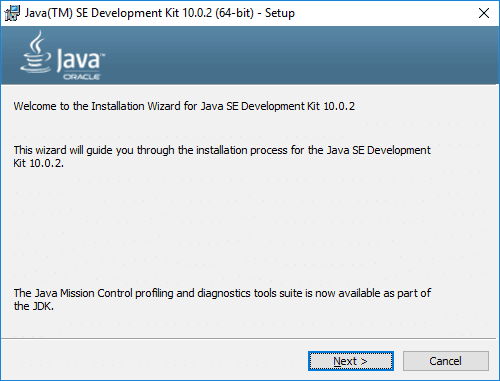
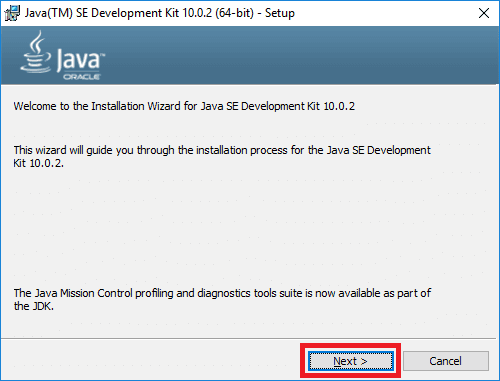
update post

Changed region(s): [[0.6, 0.895, 0.81, 1.0], [0.0, 0.0289, 0.03, 0.0577]]

diff --git a/_posts/development/2018-07-24-download-install-jdk-10-windows.md b/_posts/development/2018-07-24-download-install-jdk-10-windows.md
@@ -53,7 +53,19 @@ Open the location of the downloaded executable.
 
 Double-click it to run the installer.
 
+Click `Next`.
+
 <img src="{{ site.url }}/assets/images/posts/development/jdk/jdk-10-installer-start.png" alt="jdk 10 installer start">
+
+You can change the default installation location by clicking on the `Change…` button.
+
+In this example the default install location of 'C:\Program Files\Java\jdk-10.0.2\' was kept.
+
+<img src="{{ site.url }}/assets/images/posts/development/jdk/jdk-10-installer-default-location.png" alt="jdk 10 installer default location">
+
+
+
+
 
 Select an extract destination for the Maven files.
 
